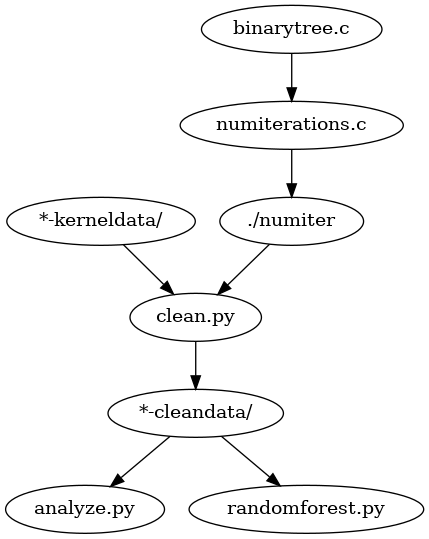
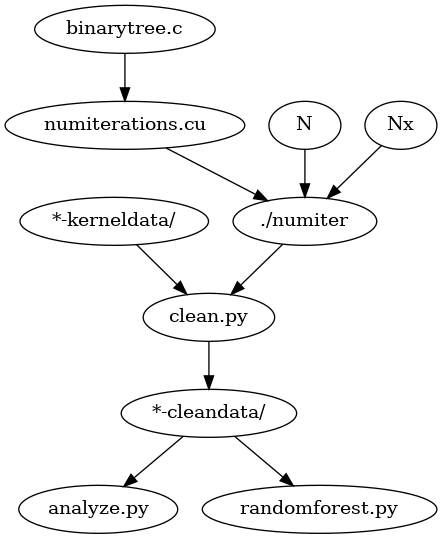
Updating clean.py and project flowchart

diff --git a/BinarySearch/machine-learning/clean.py b/BinarySearch/machine-learning/clean.py
@@ -50,8 +50,8 @@ def computeStatistics(data_csv: str, num_iter_exe: str) -> (int, int, list, list
     # print(type(runtime_vals))
 
     # Compute the (average) effective bandwidth for each of the unique execution configurations
-    # THIS IS INCORRECT - 'np.log2(Nx)' overestimates the number of iterations it takes to find a particle on average  
-    result = subprocess.check_output([num_iter_exe, str(Nx)], text=True)
+    # 'num_iter_exe' simulates the binary search on the population of particles and calculates the number of iterations required to find all of them
+    result = subprocess.check_output([num_iter_exe, str(N), str(Nx)], text=True)
     avg_iter = float(result.strip())
     print("{} iterations needed on average for binary search to find a particle for {} gridpoints".format(avg_iter, Nx))
     for runtime in avg_runtime:
@@ -118,6 +118,7 @@ cleanfiles_only = [file for file in all_files if (os.path.isfile(file) and (file
 
 stat_df = pd.DataFrame(columns=['N', 'Nx', 'num_blocks', 'num_threads_per_block', 'avg_runtime', 'runtime_variance', 'effective_bandwidth'])
 
+# 'num_iter_exe' simulates the binary search on the population of particles and calculates the number of iterations required to find all of them
 num_iter_exe_string = './numiter'
 
 # Test computeStatistics
